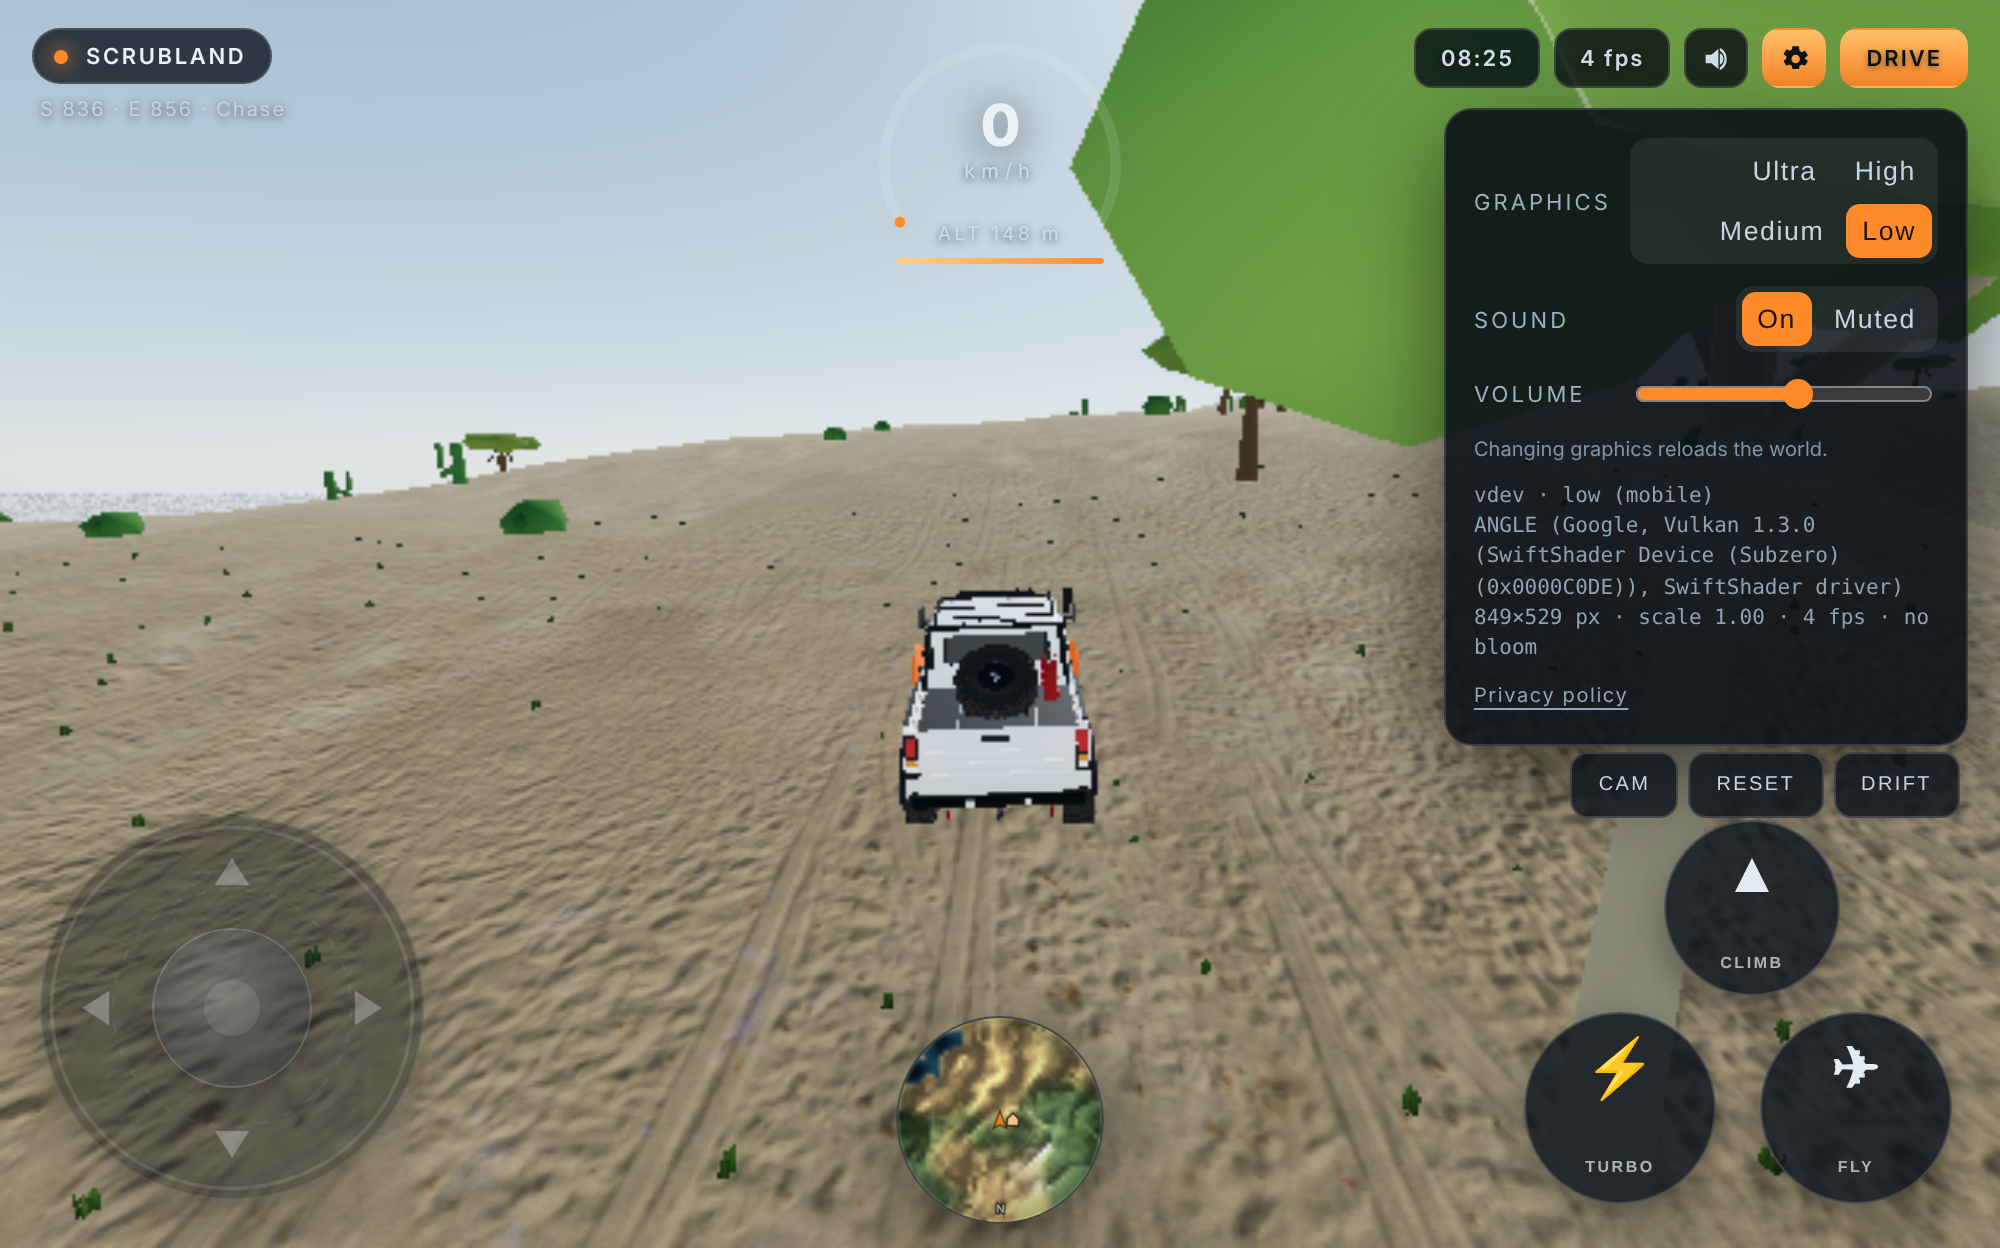
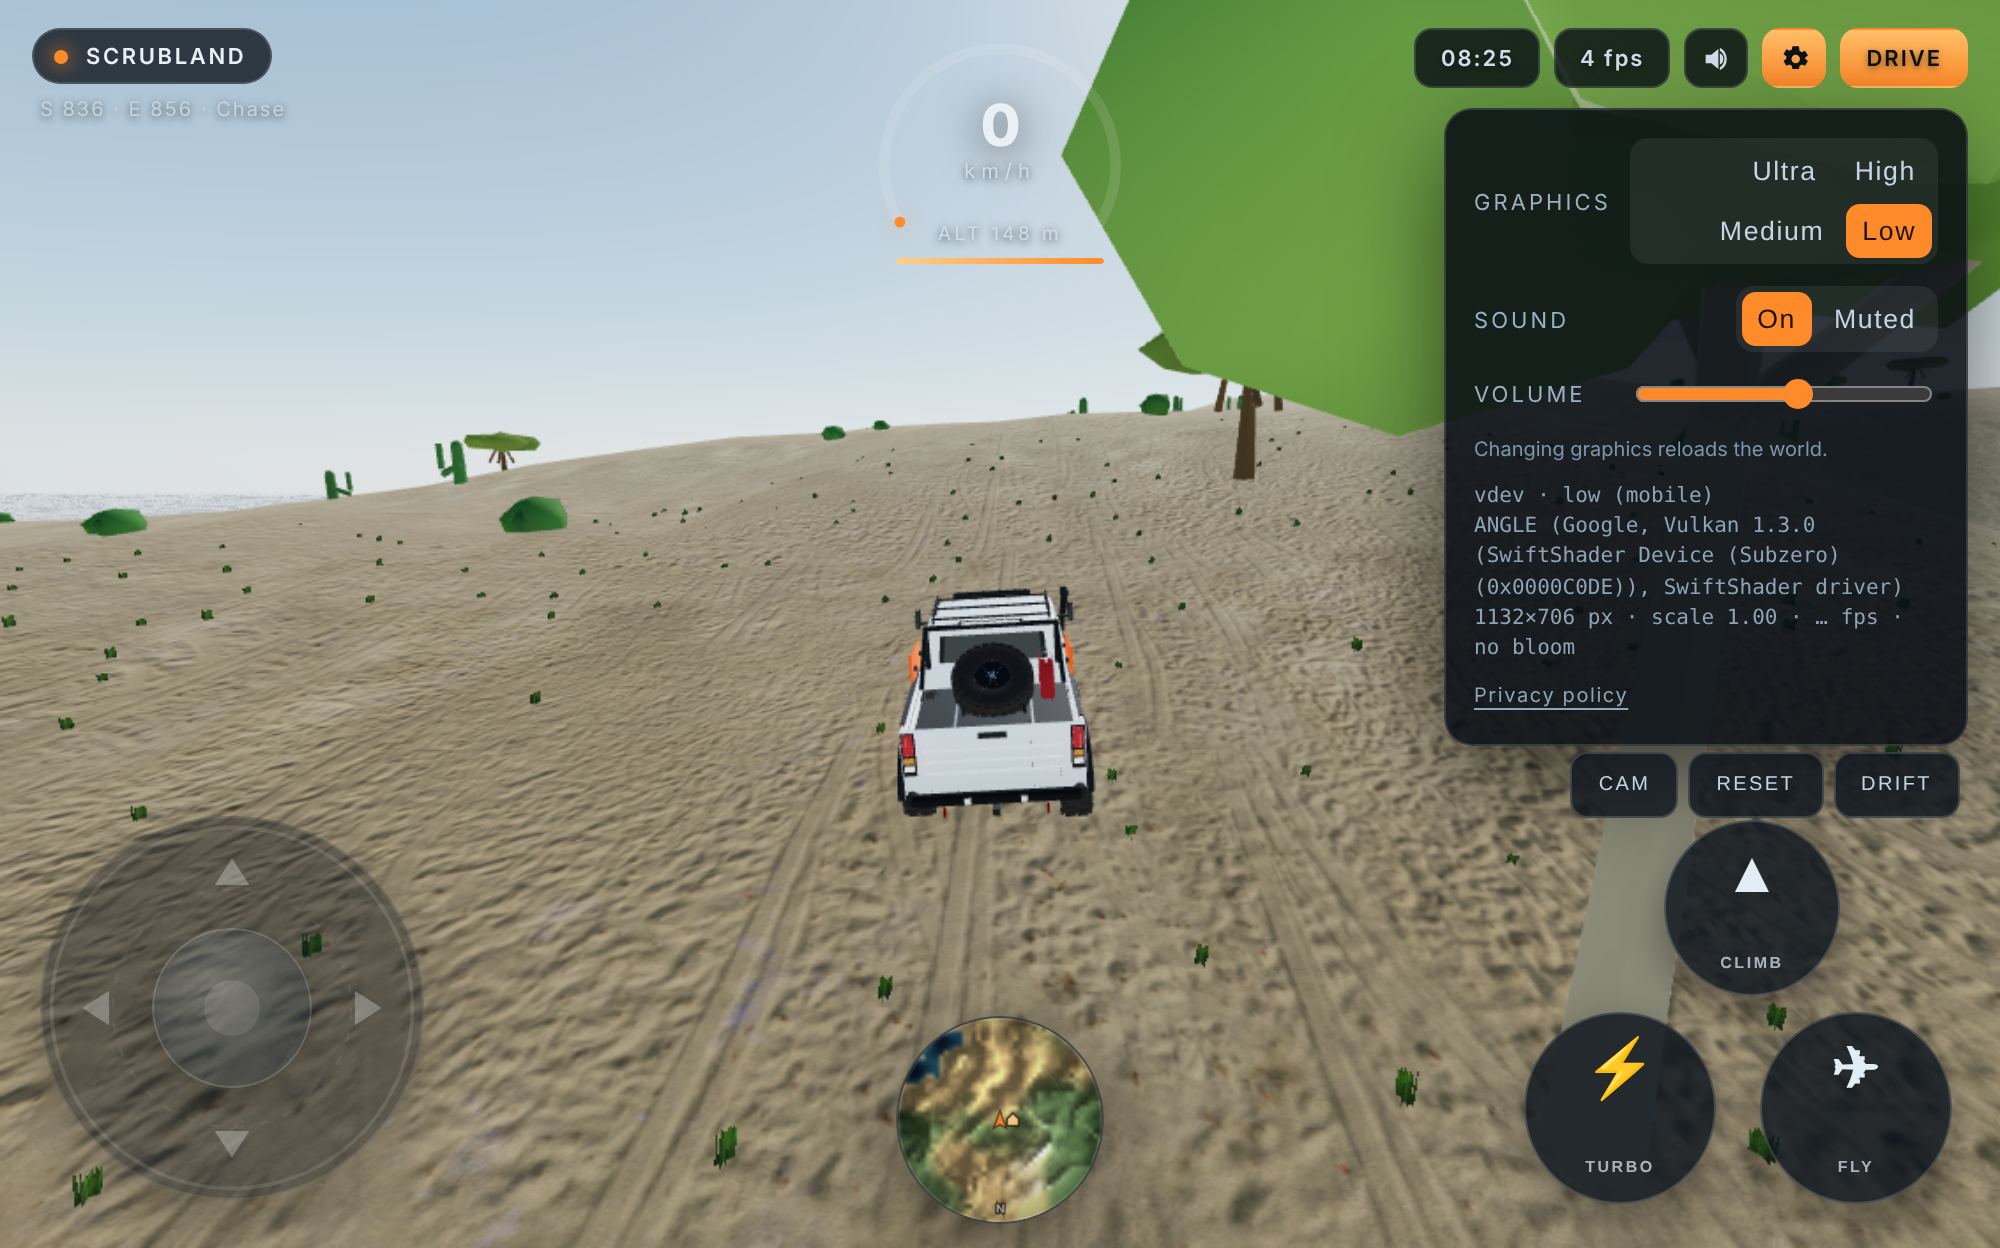
Mobile: sharper picture - 4x MSAA and a larger pixel budget
On the Adreno 610 tablet the frame was geometry-bound, not pixel-bound,
and at 0.45 MP with no anti-aliasing a 13-inch 2500x1560 screen looked
blocky. Mobile now renders with 4x MSAA (cheap on tile-based GPUs; also on
the post-processing target) and a pixel budget of 0.80 MP on Low up to
1.25 MP on Ultra. The governor still lowers resolution where pixels really
are the bottleneck.

Claude-Session: https://claude.ai/code/session_01CiqwjUq5Po3UHCh3ALEepK

diff --git a/app/src/main/assets/game/src/quality.js b/app/src/main/assets/game/src/quality.js
@@ -138,7 +138,10 @@ export function presetList() {
    pixels the GPU fills, not by the pixel ratio: a 2000-px-wide tablet at
    1.35x was drawing almost as many pixels as a desktop. Each tier gets a
    fixed number of drawn pixels instead, whatever the screen. */
-const PHONE_PIXELS = { low: 0.45e6, med: 0.65e6, high: 0.85e6, ultra: 1.05e6 };
+/* Raised after testing on an Adreno 610 tablet: it was limited by geometry,
+   not pixels, and at 0.45 MP a 13-inch screen looked blocky. The governor
+   still lowers this on devices where pixels really are the bottleneck. */
+const PHONE_PIXELS = { low: 0.80e6, med: 0.95e6, high: 1.10e6, ultra: 1.25e6 };
 
 /** The pixel ratio to start at for this preset on this screen. */
 export function basePixelRatio(q) {

diff --git a/app/src/main/assets/game/src/post.js b/app/src/main/assets/game/src/post.js
@@ -103,7 +103,7 @@ export class Post {
     const size = renderer.getDrawingBufferSize(new THREE.Vector2());
     const rt = new THREE.WebGLRenderTarget(size.x, size.y, {
       type: THREE.HalfFloatType,
-      samples: (quality.tier === 'ultra' || quality.tier === 'high') && !quality.smaa && !quality.isPhone ? 4 : 0
+      samples: (quality.tier === 'ultra' || quality.tier === 'high' || quality.isPhone) && !quality.smaa ? 4 : 0
     });
     this.composer = new EffectComposer(renderer, rt);
     this.composer.addPass(new RenderPass(scene, camera));

diff --git a/app/src/main/assets/game/src/main.js b/app/src/main/assets/game/src/main.js
@@ -55,7 +55,9 @@ class Game {
     let renderer;
     try {
       renderer = new THREE.WebGLRenderer({
-        canvas, antialias: false, powerPreference: 'high-performance',
+        /* Mobile GPUs are tile-based: 4x MSAA resolves on-chip and costs
+           very little, and without it a scaled-up mobile frame looks blocky. */
+        canvas, antialias: !!this.q.isPhone, powerPreference: 'high-performance',
         stencil: false, alpha: false
       });
     } catch (e) {

diff --git a/app/src/main/assets/game/sw.js b/app/src/main/assets/game/sw.js
@@ -15,7 +15,7 @@
        when CACHE is bumped, and they are the bulk of the bytes.
 
    Bump CACHE on every deploy. */
-const CACHE = 'dune-runner-v18';
+const CACHE = 'dune-runner-v19';
 const ASSETS = [
   "./",
   "./index.html",
